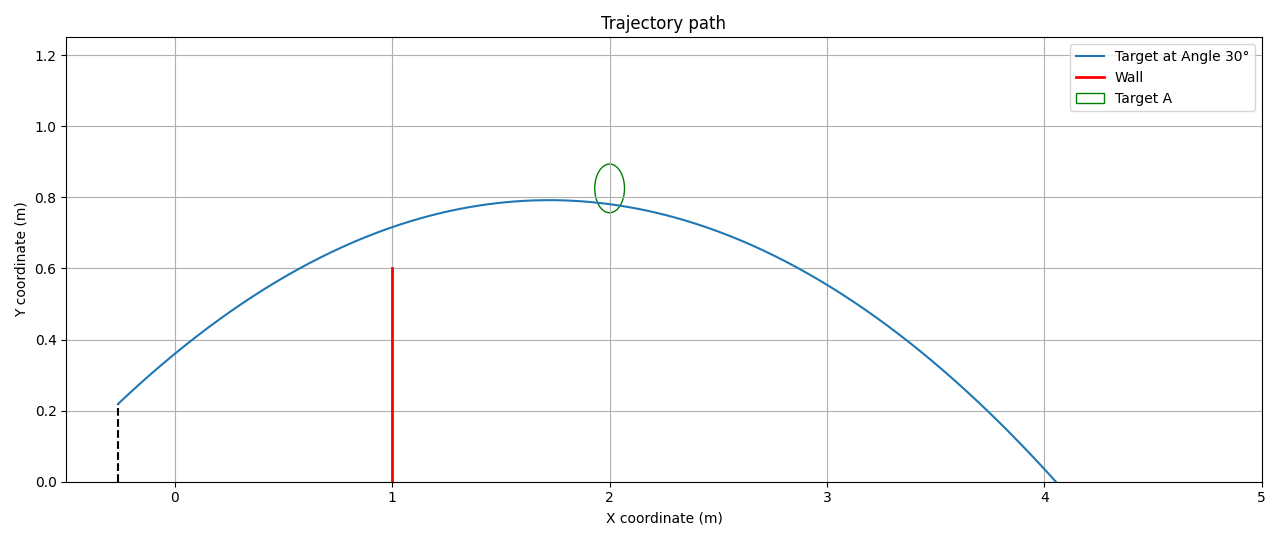
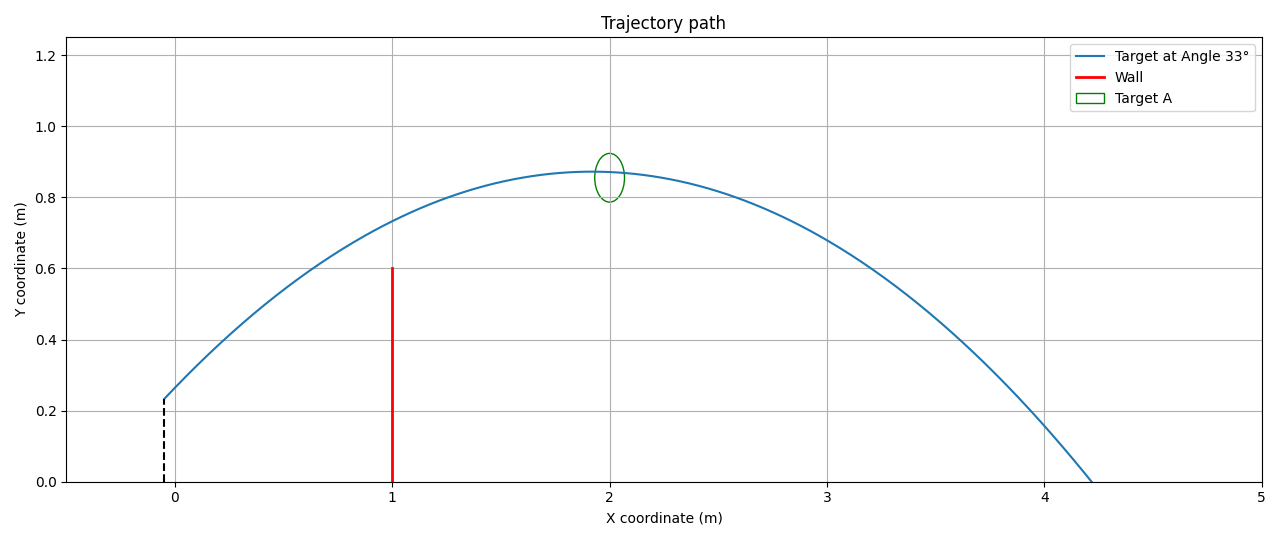
Edit Calculation and Requirement

diff --git a/Simulation Calculation/CalculateProgram.py b/Simulation Calculation/CalculateProgram.py
@@ -8,7 +8,7 @@ from TargetGenerator import *
 
 def FindPitch(Pitch_min, Pitch_max, Pitch_step, yaw, input_target_z, base_target_distance, luncher_length, triangle_side_length):
     target_z = input_target_z - triangle_side_length/2
-    adjustable_range = luncher_length * math.cos(math.radians(yaw))
+    adjustable_range = luncher_length - (luncher_length * math.cos(math.radians(yaw)))
     target_distance = base_target_distance + adjustable_range
 
     perfect_pitch = math.degrees(math.atan(target_z / target_distance))
@@ -24,24 +24,32 @@ def FindPitch(Pitch_min, Pitch_max, Pitch_step, yaw, input_target_z, base_target
 
     return pitch
 
-def FindYaw(Yaw_min, Yaw_max, Yaw_step, base_target_distance, base_target_height, base_wall_distance, base_wall_height, luncher_length, luncher_base_height, velocity):
+def FindYaw(Yaw_min, Yaw_max, Yaw_step, base_target_distance, base_target_height, base_wall_distance, base_wall_height, luncher_length, luncher_base_height, velocity, circle_diameter):
     min_error = float('inf')
     yaw = None
     
     for theta in range(Yaw_min, Yaw_max + 1, Yaw_step):
         adjustable_height = luncher_length * math.sin(math.radians(theta))
         target_height = base_target_height - adjustable_height - luncher_base_height
+        wall_height = base_wall_height - adjustable_height - luncher_base_height
 
-        adjustable_range = luncher_length * math.cos(math.radians(theta))
+        adjustable_range = luncher_length - (luncher_length * math.cos(math.radians(theta)))
         target_distance = base_target_distance + adjustable_range
+        wall_distance = base_wall_distance + adjustable_range
 
         tof = calculate_time_of_flight(velocity, theta, target_distance)
         hat = calculate_height_at_time(velocity, theta, tof)
+
+        UpperBound = target_height + circle_diameter/2
+        LowerBound = target_height - circle_diameter/2
+
+        HitWall = check_wall_collision(theta, velocity, wall_distance, wall_height)
         
-        error = abs(hat - target_height)
-        if error < min_error:
-            min_error = error
-            yaw = theta
+        if not HitWall and hat + 0.02 < UpperBound and hat - 0.02 > LowerBound:
+            error = abs(hat - target_height)
+            if error < min_error:
+                min_error = error
+                yaw = theta
 
     return yaw
 
@@ -74,7 +82,7 @@ def Calculate(Z_Target, Y_Target):
     input_target_z = z/100 
     input_target_y =  y/100 + table
 
-    Yaw = FindYaw(Yaw_min, Yaw_max, Yaw_step, target_distance, input_target_y, wall_distance, wall_height, luncher_length, luncher_baseHight, velocity)
+    Yaw = FindYaw(Yaw_min, Yaw_max, Yaw_step, target_distance, input_target_y, wall_distance, wall_height, luncher_length, luncher_baseHight, velocity, circle_diameter)
     Pitch = FindPitch(Pitch_min, Pitch_max, Pitch_step, Yaw, input_target_z, target_distance, luncher_length, triangle_side_length)
 
     #Input for plotting
@@ -82,7 +90,7 @@ def Calculate(Z_Target, Y_Target):
         "theta": Yaw,
         "v0": velocity, 
         "y0": luncher_length * math.sin(math.radians(Yaw)) + luncher_baseHight,
-        "x0": -luncher_length * math.cos(math.radians(Yaw))
+        "x0": -(luncher_length - luncher_length * math.cos(math.radians(Yaw)))
     }]
 
     tgh = calculate_height_at_time(velocity, Yaw, calculate_time_of_flight(velocity, Yaw, target_distance))
@@ -105,5 +113,5 @@ def Calculate(Z_Target, Y_Target):
     plot_Path_view(target_distance, input_target_y, circle_diameter, 'Simulation Calculation\\TrajectoryPath.json')
     plt.savefig('Picture\\Trajectory.png')
 
-    # # plt.show()
+    # plt.show()
     return Pitch, Yaw, TargetInside

diff --git a/Function/TargetGenerator.py b/Function/TargetGenerator.py
@@ -15,16 +15,10 @@ def generate_triangle(ax, side_length):
     ax.fill(triangle_x, triangle_y, 'orange', alpha=0.5)
     return [(x0, y0), (x1, y1), (x2, y2)]
 
-def generate_circle(ax, center_z, center_y, diameter):
+def generate_circle(ax, center_z, center_y, diameter, color='white'):
     radius = diameter / 2
-    circle = plt.Circle((center_z, center_y), radius, color='white', fill=True)
+    circle = plt.Circle((center_z, center_y), radius, color=color, fill=True)
     ax.add_patch(circle)
-    return (center_z, center_y), radius
-
-def generate_black_circle(ax, center_z, center_y, diameter):
-    radius = diameter / 2
-    black_circle = plt.Circle((center_z, center_y), radius, color='black', fill=True)
-    ax.add_patch(black_circle)
     return (center_z, center_y), radius
 
 def is_circle_in_triangle(center, radius, vertices):
@@ -80,7 +74,7 @@ def plot_Target_view(side_length_m, target_center_z_m, target_center_y_m, target
         black_center_z_cm = position['z'] * 100
         black_center_y_cm = position['y'] * 100 
         black_diameter_cm = position['diameter'] * 100 
-        black_center, black_radius = generate_black_circle(ax, black_center_z_cm, black_center_y_cm, black_diameter_cm)
+        black_center, black_radius = generate_circle(ax, black_center_z_cm, black_center_y_cm, black_diameter_cm, 'black')
         center2, radius2 = generate_circle(ax, black_center_z_cm, black_center_y_cm, 0.1)
         
         # if not is_circle_in_triangle(black_center, black_radius, vertices):
